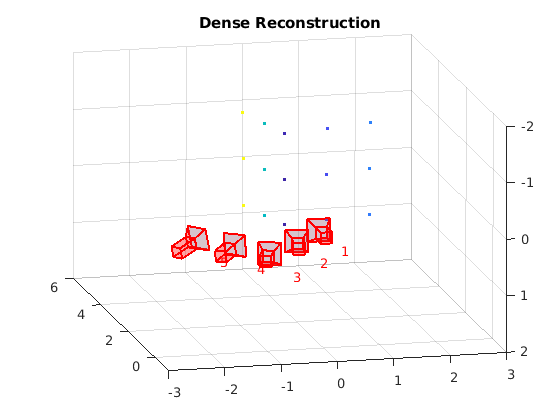
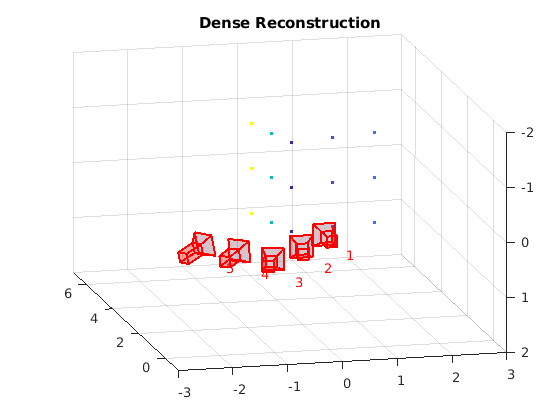
compatibility of eul2rotm for r2017a updated plots to prevent clipping data points

diff --git a/synthetic_cube/getPointsInPixelSpace.m b/synthetic_cube/getPointsInPixelSpace.m
@@ -8,8 +8,12 @@ assert(isvector(camera_orientation) && 3 == length(camera_orientation),...
     'camera_orientation must be ZYX euler angle vector');
 % invert angles and apply in reverse sequence to determine transformation
 % matrix
-world_orientation = -[camera_orientation(3), camera_orientation(2), camera_orientation(1)];
-world_to_camera_rotation_matrix = eul2rotm(world_orientation,'XYZ');
+% world_orientation = -[camera_orientation(3), camera_orientation(2), camera_orientation(1)];
+% world_to_camera_rotation_matrix = eul2rotm(world_orientation,'XYZ');
+% support for eul2rotm r2017a
+world_to_camera_rotation_matrix = eul2rotm([0 0 -camera_orientation(3)]);
+world_to_camera_rotation_matrix = world_to_camera_rotation_matrix * eul2rotm([0 -camera_orientation(2) 0]);
+world_to_camera_rotation_matrix = world_to_camera_rotation_matrix * eul2rotm([-camera_orientation(1) 0 0]);
 world_to_camera_rotation_matrix = [world_to_camera_rotation_matrix zeros(3,1); zeros(1,3) 1];
 
 assert(isvector(camera_location) && 3 == length(camera_location),...

diff --git a/synthetic_cube/runSfm.m b/synthetic_cube/runSfm.m
@@ -99,7 +99,7 @@ hold off
 loc1 = camPoses.Location{1};
 xlim([loc1(1)-3, loc1(1)+3]);
 ylim([loc1(2)-2, loc1(2)+2]);
-zlim([loc1(3)-1, loc1(3)+6]);
+zlim([loc1(3)-1, loc1(3)+7]);
 camorbit(0, -30);
 
 title('Refined Camera Poses');
@@ -162,7 +162,7 @@ hold off
 loc1 = camPoses.Location{1};
 xlim([loc1(1)-3, loc1(1)+3]);
 ylim([loc1(2)-2, loc1(2)+2]);
-zlim([loc1(3)-1, loc1(3)+6]);
+zlim([loc1(3)-1, loc1(3)+7]);
 camorbit(0, -30);
 
 title('Dense Reconstruction');
